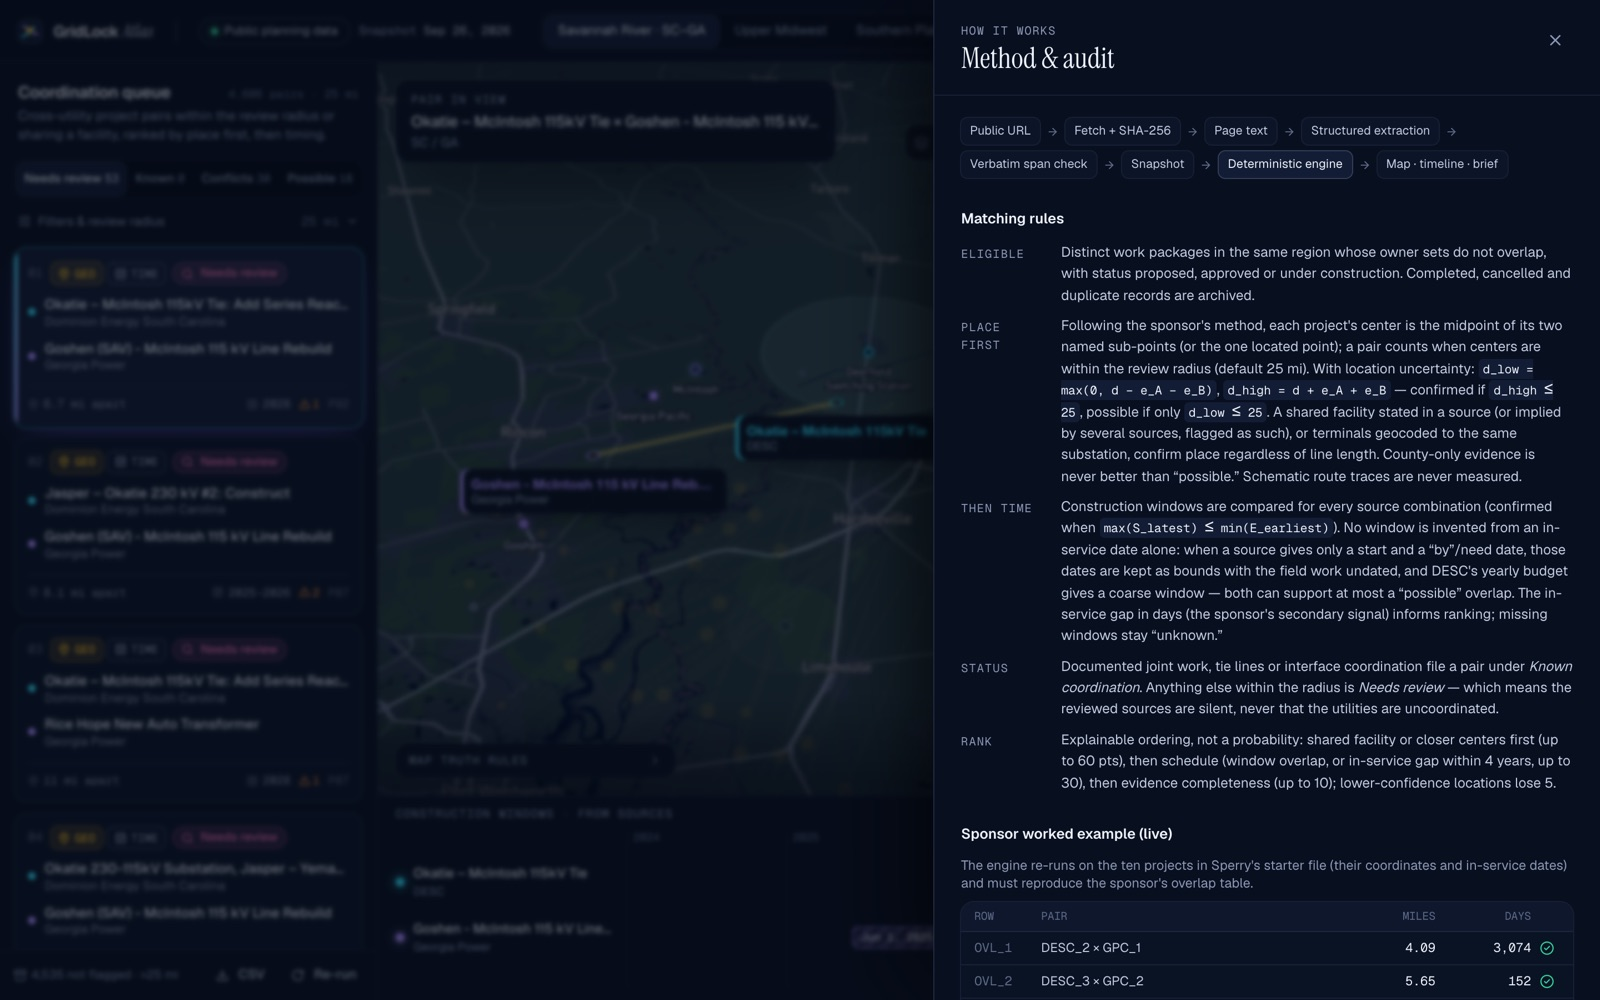
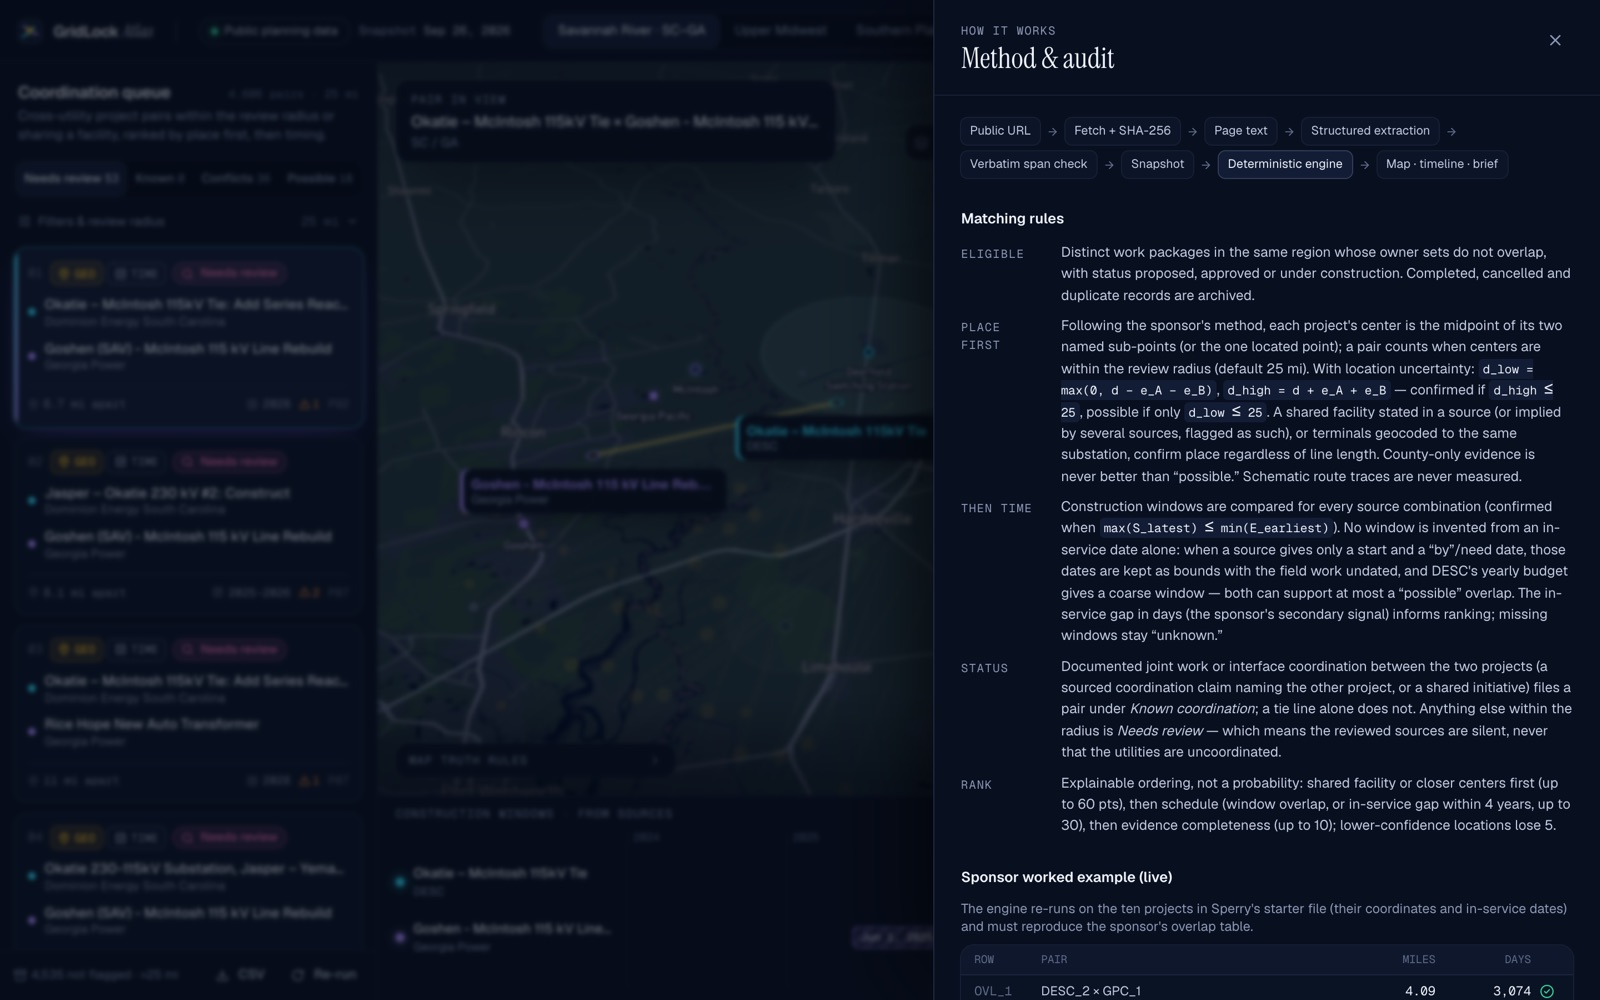
Fix round-4 review findings: page anchors always visible, direction-neutral superseded wording, WWTC terminals at Tremval North
- Evidence captions truncate the publisher first so the page anchor shows
- 'Date superseded by a newer source' (Rice Hope moved earlier, not later);
  conflict notes name the superseded value and handle sources with no window
- Demo step 7 states which date the in-service gap uses
- DESC windows note budgeted spending after the planned in-service date
- County-only wording names the project that is only county-level
- WWTC and Grid Forward NSPW start at Tremval North (Larkin Valley, PSC GIS);
  the existing Tremval substation is context
- SC-GA research notes updated for the confirmed Okatie and McIntosh sites
- Map place names under a shared-site callout are not repeated
- README impact sentence and screenshots refreshed

Changed region(s): [[0.5938, 0.651, 1.0, 1.0]]

diff --git a/tests/engine.test.ts b/tests/engine.test.ts
@@ -8,7 +8,7 @@ import { displayTitle, formatBound, formatMilesNear, formatPoint, formatSpan, fo
 import { impactDefaults, needsNewCorridor } from "@/lib/impact";
 import { evaluatePair, projectConflicts, runMatching } from "@/lib/matching/engine";
 import { evaluateGeo } from "@/lib/matching/geo";
-import { coarsest, currentInService, dayCount, dayWord, displayWindowGroups, endsWindow, evaluateTime } from "@/lib/matching/time";
+import { activeWindows, coarsest, currentInService, dayCount, dayWord, displayWindowGroups, endsWindow, evaluateTime } from "@/lib/matching/time";
 import { readableNote, windowSourceText } from "@/lib/selectors";
 
 /* ------------------------------- fixture builders ------------------------------- */
@@ -626,7 +626,7 @@ describe("snapshot data regressions", () => {
 
   it("'plan editions' only for one publisher's own lists; a later source superseding an earlier one says so", () => {
     const g = pair("desc-6888", "gpc-20065")!.conflicts.find((c) => c.id === "gpc-20065:completion")!;
-    expect(g.description).toBe("Earlier date superseded by a later source — 2024 Ten-Year Plan: Jun 1, 2027 → SERTP 2025: 2028");
+    expect(g.description).toBe("Date superseded by a newer source — 2024 Ten-Year Plan: Jun 1, 2027 → SERTP 2025: 2028");
     const desc = projectConflicts(proj("desc-06005-b"), pub, doc).find((c) => c.field === "completion")!;
     // edition names oldest first
     expect(desc.description).toBe("Schedule changed between plan editions — 2024–2028 list, 2025–2029 list: Mar 31, 2027 → current edition: Dec 31, 2028");
@@ -855,16 +855,41 @@ describe("snapshot data regressions", () => {
   it("Grid Forward ATC runs from the change-of-ownership point to Columbia; ABO from Alexandria to Big Oaks", () => {
     expect(proj("grid-forward-atc").places.filter((pl) => pl.role === "endpoint").map((pl) => pl.id)).toEqual(["gf-pco", "gf-columbia"]);
     expect(proj("abo-alexandria-big-oaks").places.filter((pl) => pl.role === "endpoint").map((pl) => pl.id)).toEqual(["abo-alexandria", "abo-big-oaks"]);
-    expect(pair("grid-forward-atc", "grid-forward-nspw")!.geoDetail.center!.miles).toBeCloseTo(53, 0);
+    expect(pair("grid-forward-atc", "grid-forward-nspw")!.geoDetail.center!.miles).toBeCloseTo(53.5, 0);
     expect(pair("grid-forward-atc", "transource-beci")!.geoDetail.center!.miles).toBeCloseTo(80, 0);
   });
 
   it("near-edge wording: one decimal beside the radius, and 'named facilities' only when no point is town-level", () => {
-    expect(pair("atc-wwtc-jump-river", "xcel-wwtc")!.geoReason).toContain("≈26.1 mi apart");
+    expect(pair("atc-wwtc-jump-river", "xcel-wwtc")!.geoReason).toContain("≈25.8 mi apart");
     const at10 = runMatching(SNAPSHOT, { now: "t", thresholdMiles: 10 }).matches.find((m) => m.id === "desc-6367-d__gpc-20785")!;
     expect(at10.geoDetail.center!.anyLocality).toBe(true);
     expect(whyFlagged(at10)).toMatch(/centers ≈9\.7 mi apart, at the edge of the 10 mi radius.*A location is approximate \(town-level\)/);
     expect(whyFlagged(pair("desc-6888", "gpc-20787")!)).toMatch(/Located at named facilities/);
+  });
+
+  it("WWTC and Grid Forward NSPW start at Tremval North (Larkin Valley), not the existing Tremval substation", () => {
+    const ends = (id: string) => proj(id).places.filter((pl) => pl.role === "endpoint").map((pl) => pl.id);
+    expect(ends("xcel-wwtc")).toEqual(["larkin-valley-substation", "jump-river-south-endpoint"]);
+    expect(ends("grid-forward-nspw")).toEqual(["gf-larkin-valley", "gf-pco"]);
+    expect(proj("xcel-wwtc").places.find((pl) => pl.id === "tremval-substation-existing")!.role).toBe("context");
+  });
+
+  it("a coarse pair names the project that is only located by county", () => {
+    const m = pair("desc-6888", "gpc-effingham-500")!;
+    expect(m.geoDetail.method).toBe("coarse");
+    expect(m.geoReason).toMatch(/^Effingham County 500 kV.* is located only at county level/);
+    expect(buildBrief(m).unresolved.join(" ")).not.toMatch(/Only county-level locations are published for either/);
+  });
+
+  it("superseded wording never implies the date moved later (Rice Hope moved earlier)", () => {
+    const c = pair("desc-6888", "gpc-20989")!.conflicts.find((x) => x.projectId === "gpc-20989" && x.field === "completion")!;
+    expect(c.description).toMatch(/^Date superseded by a newer source — 2024 Ten-Year Plan: Jun 1, 2029 → SERTP 2025: 2028/);
+  });
+
+  it("DESC windows that run past the in-service date say why", () => {
+    const w = activeWindows(proj("desc-0139-m-n")).find((x) => x.claimSourceId === "desc-scrtp-2026-2030")!;
+    expect(w.end.latest).toBe("2027-12-31");
+    expect(w.note).toMatch(/after the planned in-service date \(2027: \$1,024,912\), so the window may run to the end of 2027/);
   });
 
   it("SERTP 2025 in-service years are current for every Savannah-area project that states one", () => {

diff --git a/components/Inspector.tsx b/components/Inspector.tsx
@@ -539,13 +539,21 @@ function completionNote(c: Conflict, p: Project): string {
   const cur = currentInService(p);
   const gap = cur ? `the in-service gap (secondary signal) uses the current date, ${formatBound(cur.date)}` : "no in-service gap is computed";
   const bound = c.sides.filter((s) => s.claimIds.some((id) => c.boundClaimIds?.includes(id)));
-  const earlier = c.sides.filter((s) => s.earlier).length;
-  const history = `the earlier date${earlier > 1 ? "s are" : " is"} kept as version history`;
+  const old = c.sides.filter((s) => s.earlier).map((s) => s.value);
+  const history = `the superseded date${old.length > 1 ? "s" : ""} from the older source${old.length > 1 ? "s" : ""} (${old.join(", ")}) ${old.length > 1 ? "are" : "is"} kept as version history`;
   if (!c.affectsMatch || !bound.length) return `All claims are kept. These dates do not bound a construction window; ${gap}${c.versionOnly ? `, and ${history}` : ""}.`;
   if (c.versionOnly)
-    return `All claims are kept. The current date, ${bound[0].value}, also sets the end of this project's current schedule window, so it feeds the TIME match and the in-service gap; ${history}.`;
+    return `All claims are kept. The current date, ${bound[0].value}, also falls within the end of this project's current schedule window, so it feeds the TIME match and the in-service gap; ${history}.`;
+  // a side whose sources publish no window is kept for review but never matched (e.g. AEP's 2034 for BECI)
+  const windowed = new Set(activeWindows(p).map((w) => w.claimSourceId));
+  const unwindowed = c.sides.filter((s) => !s.sourceIds.some((id) => windowed.has(id)));
+  if (unwindowed.length) {
+    const vals = (xs: typeof c.sides) => xs.map((s) => s.value).join(" and ");
+    const many = unwindowed.length > 1;
+    return `All claims are kept. Only ${vals(bound)} comes with a schedule window, so the TIME match uses it; ${vals(unwindowed)} ${many ? "have" : "has"} no window of ${many ? "their" : "its"} own and ${many ? "are" : "is"} kept for review but not matched. ${gap[0].toUpperCase()}${gap.slice(1)}.`;
+  }
   const n = new Set(bound.flatMap((s) => s.sourceIds)).size;
-  return `All claims are kept. ${bound.map((s) => s.value).join(" and ")} is also the end of ${n > 1 ? "those sources' own schedule windows" : "its source's own schedule window"}; the window match evaluates every source combination, so ${c.sides.length > 2 ? "no date is picked over the others" : "neither date is picked over the other"}. ${gap[0].toUpperCase()}${gap.slice(1)}.`;
+  return `All claims are kept. ${bound.map((s) => s.value).join(" and ")} also falls within the end of ${n > 1 ? "those sources' own schedule windows" : "its source's own schedule window"}; the window match evaluates every source combination, so ${c.sides.length > 2 ? "no date is picked over the others" : "neither date is picked over the other"}. ${gap[0].toUpperCase()}${gap.slice(1)}.`;
 }
 
 /** A window's note under its schedule row: two lines, the rest on demand. */
@@ -591,7 +599,7 @@ function SideCard({ p, side, field }: { p: Project; side: ConflictSide; field: C
             <div key={pub} className="mono truncate text-[9.5px] uppercase tracking-[0.05em] text-text-3" title={docs.map((d) => d!.title).join("\n")}>
               {pub}
               {docs.length > 1 && ` · ${docs.length} docs`}
-              {side.earlier && " · earlier edition"}
+              {side.earlier && " · superseded"}
             </div>
           );
         })}

diff --git a/components/MapStage.tsx b/components/MapStage.tsx
@@ -257,7 +257,7 @@ function addDataLayers(map: mapboxgl.Map, basemap: Basemap) {
       id: "gl-point-labels",
       type: "symbol",
       source: "gl-points",
-      filter: ["match", ["get", "role"], ["a", "b", "hover"], true, false],
+      filter: ["all", ["match", ["get", "role"], ["a", "b", "hover"], true, false], ["!=", ["get", "onSite"], true]],
       layout: {
         "text-field": ["get", "label"],
         "text-font": ["DIN Pro Medium", "Arial Unicode MS Regular"],
@@ -553,7 +553,15 @@ export default function MapStage() {
     };
     (map.getSource("gl-routes") as GeoJSONSource | undefined)?.setData(routeFeatures(ctx));
     (map.getSource("gl-halos") as GeoJSONSource | undefined)?.setData(haloFeatures(ctx));
-    (map.getSource("gl-points") as GeoJSONSource | undefined)?.setData(pointFeatures(ctx));
+    // the shared-site callout names the meeting point, so the map's own place names there are not repeated under it
+    const site = sharedSite(preview?.match ?? null);
+    const points = pointFeatures(ctx);
+    if (site)
+      for (const f of points.features) {
+        const [lon, lat] = f.geometry.coordinates;
+        if (Math.hypot((lon - site.lon) * Math.cos((lat * Math.PI) / 180), lat - site.lat) * 69 < 0.6) f.properties.onSite = true;
+      }
+    (map.getSource("gl-points") as GeoJSONSource | undefined)?.setData(points);
     (map.getSource("gl-connector") as GeoJSONSource | undefined)?.setData(connectorFeature(preview?.match ?? null));
     (map.getSource("gl-centers") as GeoJSONSource | undefined)?.setData(centerFeatures(preview?.match ?? null));
     const visibleMatches = (run?.matches ?? []).filter((m) => visibleProjectIds.has(m.projectAId) && visibleProjectIds.has(m.projectBId));

diff --git a/lib/matching/geo.ts b/lib/matching/geo.ts
@@ -185,7 +185,7 @@ export function evaluateGeo(a: Project, b: Project, relations: Relation[], thres
     let low = Infinity;
     for (const [x, ex] of pa) for (const [y, ey] of pb) low = Math.min(low, Math.max(0, miles(x, y) - ex - ey));
     return low <= thresholdMiles
-      ? { level: "possible", reason: "Only county-level locations are published; the areas could be within the review radius.", detail }
+      ? { level: "possible", reason: `${countyOnlyText([ca ? null : a, cb ? null : b])}; the areas could be within the review radius.`, detail }
       : { level: "no-match", reason: "Even the nearest edges of the published county-level areas are beyond the review radius.", detail };
   }
 
@@ -194,4 +194,10 @@ export function evaluateGeo(a: Project, b: Project, relations: Relation[], thres
     reason: "No usable location evidence for one of the projects; proximity is unknown.",
     detail: { ...base, method: "none" },
   };
+}
+
+/** Which side of a coarse pair is known only by county (the other may sit at named facilities). */
+export function countyOnlyText(sides: (Project | null)[]): string {
+  const only = sides.filter((p): p is Project => !!p);
+  return only.length === 1 ? `${displayTitle(only[0])} is located only at county level (no site published)` : "Only county-level locations are published for either project";
 }

diff --git a/lib/brief.ts b/lib/brief.ts
@@ -2,6 +2,7 @@ import { IDX, SNAPSHOT } from "@/lib/data";
 import { displayTitle, firstSentence, SCOPE_LABEL } from "@/lib/describe";
 import type { Evidence, Match, Project } from "@/lib/domain/types";
 import { formatDate, formatSpan, precisionLabel } from "@/lib/format";
+import { centerOf, countyOnlyText } from "@/lib/matching/geo";
 import { activeWindows, coarsest, currentInService } from "@/lib/matching/time";
 import { ownerNames, pageLabel } from "@/lib/selectors";
 
@@ -106,7 +107,7 @@ export function buildBrief(m: Match): Brief {
     if (prec === "year" || prec === "half" || prec === "quarter")
       unresolved.push(`At least one published schedule date for ${displayTitle(p)} is only ${precisionLabel(prec)}-precision; the exact months of its field work are not stated.`);
   }
-  if (m.geoDetail.method === "coarse") unresolved.push("Only county-level locations are published; site proximity is unverified.");
+  if (m.geoDetail.method === "coarse") unresolved.push(`${countyOnlyText([centerOf(a) ? null : a, centerOf(b) ? null : b])}; site proximity is unverified.`);
   if ([a, b].some((p) => p.route?.precision === "official-map-digitized"))
     unresolved.push("Route lines on the map are schematic traces of official route-options graphics, not survey-accurate alignments.");
 

diff --git a/components/Evidence.tsx b/components/Evidence.tsx
@@ -29,9 +29,13 @@ export function EvidenceCard({ e, tone = "neutral", compact }: { e: Evidence; to
     <figure className="relative overflow-hidden rounded-lg bg-bg-2/80 ring-1 ring-line" style={{ boxShadow: `inset 2px 0 0 ${TONE[tone]}` }}>
       <figcaption className="flex items-center gap-1.5 px-3 pt-2.5">
         <SourceIcon type={src?.sourceType} />
-        <span className="mono truncate text-[10px] uppercase tracking-[0.06em] text-text-2">
-          {src?.publisher ?? e.sourceId}
-          {anchor && <span className="text-text-1"> · {anchor}</span>}
+        {/* the publisher gives way first, so the page anchor always shows */}
+        <span
+          className="mono flex min-w-0 items-baseline text-[10px] uppercase tracking-[0.06em] text-text-2"
+          title={anchor ? `${src?.publisher ?? e.sourceId} · ${anchor}` : (src?.publisher ?? e.sourceId)}
+        >
+          <span className="min-w-0 truncate">{src?.publisher ?? e.sourceId}</span>
+          {anchor && <span className="max-w-[65%] shrink-0 truncate whitespace-nowrap text-text-1">&nbsp;· {anchor}</span>}
         </span>
         {href && (
           <a

diff --git a/lib/matching/engine.ts b/lib/matching/engine.ts
@@ -119,7 +119,7 @@ export function projectConflicts(p: Project, sourceTitle: (id: string) => string
       projectId: p.id,
       field: "completion",
       description: versionOnly
-        ? `${onePublisher ? "Schedule changed between plan editions" : "Earlier date superseded by a later source"} — ${versionText()}`
+        ? `${onePublisher ? "Schedule changed between plan editions" : "Date superseded by a newer source"} — ${versionText()}`
         : "Sources give different completion / in-service dates — " + describe(cGroups, (d) => formatBound(d.start)),
       sides: cGroups.map((g) => ({ value: formatBound(g[0].start), sourceIds: g.map((x) => x.sourceId), claimIds: g.map((x) => x.id), earlier: g.every((x) => x.earlier) })),
       claimIds,

diff --git a/components/GuidedDemo.tsx b/components/GuidedDemo.tsx
@@ -116,7 +116,7 @@ const STEPS: Step[] = [
   },
   {
     title: "Sources disagree — both are kept",
-    body: "Xcel's page and the Wisconsin PSC give different completion dates. Both are kept side by side, and each source's own window is evaluated, so neither date is picked over the other.",
+    body: "Xcel's page and the Wisconsin PSC give different completion dates. Both are kept side by side and every source's own construction window is compared; the in-service gap (secondary signal) uses NSPW's latest filing, Q3 2029.",
     run: open(featured, "conflicts", (m) => ({ highlightConflict: true, focusConflict: wwtcCompletion(m) })),
   },
   {

diff --git a/components/Timeline.tsx b/components/Timeline.tsx
@@ -451,7 +451,7 @@ function CompletionMark({
           <div className="text-text-2">{src?.publisher}</div>
           <div className="mt-1 text-text-3">
             {boundsWindow
-              ? "This date is also the end of a current schedule window used for the TIME match."
+              ? "This date also falls within the end of a current schedule window used for the TIME match."
               : c.current === false
                 ? "Earlier edition: kept as version history, not used for TIME."
                 : "Not used as a schedule-window bound."}

diff --git a/lib/mapdata.ts b/lib/mapdata.ts
@@ -41,7 +41,7 @@ export function roleOf(projectId: string, ctx: RoleContext): Role {
   return p ? overviewRole(p) : "all";
 }
 
-type Props = { projectId: string; role: Role; label?: string; precision?: string; kind?: string; title?: string; context?: boolean };
+type Props = { projectId: string; role: Role; label?: string; precision?: string; kind?: string; title?: string; context?: boolean; onSite?: boolean };
 
 function fc<G extends Geometry>(features: Feature<G, Props>[]): FeatureCollection<G, Props> {
   return { type: "FeatureCollection", features };

diff --git a/scripts/ingest/region_b_to_clusters.py b/scripts/ingest/region_b_to_clusters.py
@@ -325,15 +325,18 @@ def desc_clusters(parsed, geo):
             last_spend = f"{years[-1]}-12-31"
             end_latest = max(end_iso, last_spend)
             end = {"earliest": min(iso_fix(r["inService"])[0]["earliest"], end_latest), "latest": end_latest, "precision": "day" if end_latest == end_iso else "year"}
+            late = [y for y in years if y > int(end_iso[:4])]
+            late_txt = ", ".join(f"{y}: ${r['costs'][str(y)]:,}" for y in late)
             if start["earliest"] <= end["latest"]:
                 windows.append({
                     "claimSourceId": CURRENT, "phase": "unknown", "start": start, "end": end, "continuous": False,
                     **({"openStart": True} if started_before else {}),
                     "evidence": window_costs(E["costs"], pre_years, prev_minor) + [E["inService"]],
-                    "note": "Coarse budget-year window: first budgeted spending year → planned in-service date. DESC publishes yearly spending, not construction dates"
+                    "note": "Coarse budget-year window: first budgeted spending year → planned in-service date (or the last budgeted spending year, if later). DESC publishes yearly spending, not construction dates"
                             + ("; spending also occurred before 2026 (the list gives only a 'Previous' column), so the start year is not published" if started_before else "")
                             + ("; the 2024–2028 list already shows spending before 2024" if before_2024 else "")
                             + (f"; spending under 5% of the total ({', '.join(skipped)}) is treated as preconstruction and does not start the window" if skipped else "")
+                            + (f"; DESC also budgets spending after the planned in-service date ({late_txt}), so the window may run to the end of {late[-1]}" if late else "")
                             + ".",
                 })
 

diff --git a/README.md b/README.md
@@ -55,7 +55,7 @@ Research was agent-assisted: AI research agents located facts and exact quotes, 
 
 The engine reproduces the sponsor's starter overlap table exactly (six rows, ±0.01 mi and to the day, no extra pairs) — see `tests/engine.test.ts` and the Method drawer.
 
-**Impact estimate (bonus).** For any flagged pair: acres of right-of-way one shared corridor would avoid encumbering twice (`miles × 5,280 × width ÷ 43,560`) and its value, plus one avoided crew mobilization. Defaults are cited (Georgia Transmission easement widths, USDA NASS 2026 land values, MISO transmission cost guide, and a joint proposed order in an SC PSC docket on co-building); every input is editable, and the result is labeled a scenario, not a saving. The shared-corridor length defaults to the shorter published length only when both projects build new lines that do not simply meet end to end at a shared substation or handoff point; otherwise (including equipment work or a rebuild on existing right-of-way, as in the top Savannah River lead) it defaults to 0 and says so. Width, mobilization and line cost use the pair's own voltage class where a cited table publishes it (e.g. MISO's 345 kV and 765 kV rows), else the nearest lower published class.
+**Impact estimate (bonus).** For any flagged pair: acres of right-of-way one shared corridor would avoid encumbering twice (`miles × 5,280 × width ÷ 43,560`) and its value, plus one avoided crew mobilization. Defaults are cited (Georgia Transmission easement widths, USDA NASS 2026 land values, MISO transmission cost guide, and a joint proposed order in an SC PSC docket on co-building); every input is editable, and the result is labeled a scenario, not a saving. The shared-corridor length defaults to the shorter published length only when both projects build new lines that do not simply meet end to end at a shared substation or handoff point; otherwise (including equipment work or a rebuild on existing right-of-way, as in the top Savannah River lead) it defaults to 0 and says so. Right-of-way width and mobilization use the pair's own voltage class where a cited table publishes it (e.g. the 345 kV width and MISO's 345 kV mobilization row), else the nearest lower published class (MISO publishes no mobilization cost above 500 kV).
 
 ## Run it
 
